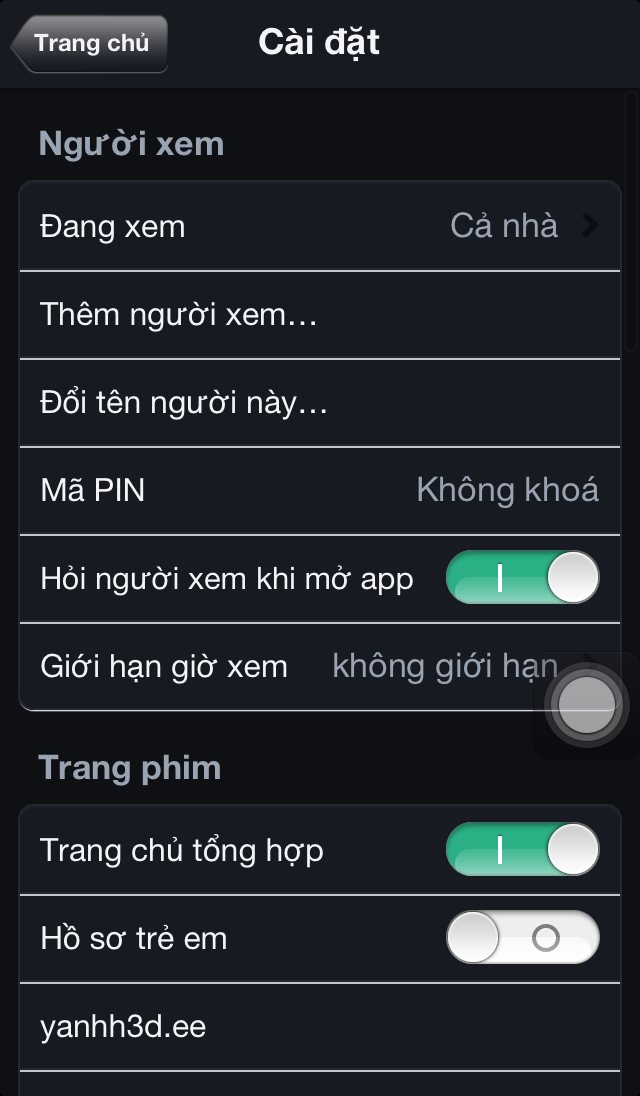
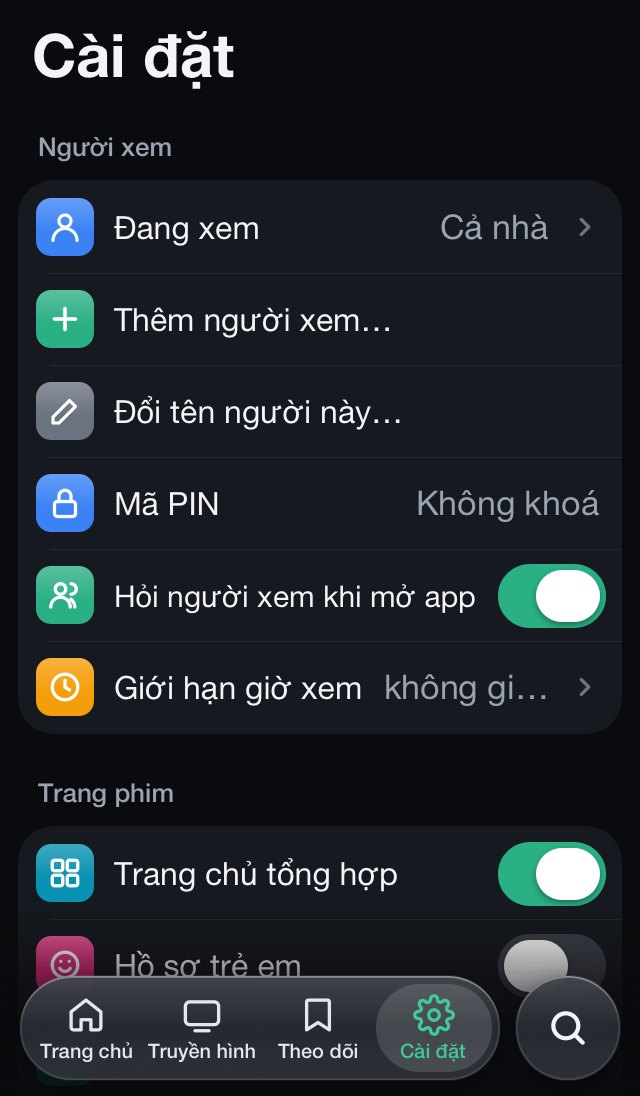
Trang giới thiệu: ảnh và chữ theo bản 0.6.0 (giao diện kiểu iOS 26)
- Ảnh mới chụp từ app trên iPhone 5 (iOS 6) và iPad 1 (iOS 5): trang chủ có thanh tab nổi, trang phim, trình phát + bảng
  chọn tập, Cài đặt, Điểm IMDb cao, radio; ảnh mới «thu nhỏ khi đang xem» và «tìm kiếm» (thay màn Thể loại)
- Chụp thẳng cửa sổ app: không thanh trạng thái, không nút AssistiveTouch
- Chữ: thanh tab nổi, nút kính, nút «Tập», mục mới «Vừa xem vừa lướt»; hỏi đáp: tab Truyền hình → nút +

diff --git a/index.html b/index.html
@@ -221,7 +221,7 @@ footer p{margin:14px auto 0;max-width:50em;font-size:13px;line-height:1.55;color
 <img class="appicon" src="assets/logo.png" alt="Biểu tượng Côn Bằng TV Legacy" width="120" height="120">
 <p class="eyebrow" style="margin-top:12px">iPhone · iPad · iPod touch — iOS 5, iOS 6 đã jailbreak</p>
 <h1 class="h1 press">Máy cũ vẫn xem phim&nbsp;mượt.</h1>
-<p class="lead">iPhone, iPad đời iOS 5, iOS 6 không còn cài được app xem phim nào. <strong>Côn Bằng TV Legacy</strong> viết riêng cho chúng: gom phim từ nhiều trang về một trang chủ, phát bằng chip giải mã của máy nên 1080p vẫn mượt, xem truyền hình và nghe radio từ danh sách kênh của bạn, đồng bộ lịch sử với tivi và các máy khác trong nhà — và tự cập nhật.</p>
+<p class="lead">iPhone, iPad đời iOS 5, iOS 6 không còn cài được app xem phim nào. <strong>Côn Bằng TV Legacy</strong> viết riêng cho chúng: gom phim từ nhiều trang về một trang chủ, phát bằng chip giải mã của máy nên 1080p vẫn mượt, xem truyền hình và nghe radio từ danh sách kênh của bạn, đồng bộ lịch sử với tivi và các máy khác trong nhà — và tự cập nhật. Từ bản 0.6.0: <strong>giao diện mới kiểu iOS 26</strong>, thanh tab nổi, nút kính.</p>
 <div class="actions">
 <a href="cydia://url/https://cydia.saurik.com/api/share#?source=https://conbangtvlegacy.github.io/repo/" class="btn">Thêm vào Cydia</a><a href="https://github.com/ConBangTVLegacy/ConBangTV-Legacy/releases/latest" class="btn-gray js-deb">Tải tệp .deb</a>
 </div>
@@ -231,8 +231,8 @@ footer p{margin:14px auto 0;max-width:50em;font-size:13px;line-height:1.55;color
 
 <div class="wrap">
 <div class="devices">
-<div class="ipad"><img src="assets/ipad-imdb.jpg" alt="Côn Bằng TV Legacy trên iPad mini (iOS 6): mục Điểm IMDb cao, lưới phim có nhãn điểm IMDb" width="1024" height="748"></div>
-<div class="iphone"><img src="assets/iphone-trang-chu.jpg" alt="Côn Bằng TV Legacy trên iPhone 5 (iOS 6): trang chủ với các nút Theo dõi, Điểm IMDb cao, hàng Xem tiếp" width="640" height="1096"></div>
+<div class="ipad"><img src="assets/ipad-imdb.jpg" alt="Côn Bằng TV Legacy trên iPad 1 (iOS 5): mục Điểm IMDb cao, lưới phim có nhãn điểm IMDb, nút quay lại tròn" width="1024" height="748"></div>
+<div class="iphone"><img src="assets/iphone-trang-chu.jpg" alt="Côn Bằng TV Legacy trên iPhone 5 (iOS 6): trang chủ kiểu iOS 26 — tiêu đề lớn, nút Điểm IMDb cao, hàng Xem tiếp, thanh tab nổi ở đáy" width="640" height="1096"></div>
 </div>
 <div class="grid four facts">
 <div class="col"><div class="table"><div class="cell"><b>Miễn phí</b><span class="d">Không tài khoản, không quảng cáo của app.</span></div></div></div><div class="col"><div class="table"><div class="cell"><b>Mượt trên máy cũ</b><span class="d">Phát bằng chip giải mã của máy — 1080p vẫn mượt trên iPhone 5, iPad mini.</span></div></div></div><div class="col"><div class="table"><div class="cell"><b>Tự cập nhật</b><span class="d">Có bản mới là app hỏi, bấm một nút là cài, giữ nguyên lịch sử.</span></div></div></div><div class="col"><div class="table"><div class="cell"><b>Mã nguồn công khai</b><span class="d">Ai cũng xem được app làm gì, trên GitHub.</span></div></div></div>
@@ -285,14 +285,14 @@ ssh root@IP-máy "dpkg -i /tmp/vn.conbangtv.legacy_*.deb &amp;&amp; su mobile -c
 <div class="head">
 <p class="eyebrow">Tính năng</p>
 <h2 class="h2 press">Đủ như bản trên tivi, gọn cho màn hình nhỏ.</h2>
-<p class="lead">Dùng chung «bộ não» với Côn Bằng TV trên tivi, Windows, Linux: cùng cách đọc trang phim, cùng trang chủ tổng hợp, cùng đồng bộ — chỉ khác lớp giao diện viết lại cho iOS 6.</p>
+<p class="lead">Dùng chung «bộ não» với Côn Bằng TV trên tivi, Windows, Linux: cùng cách đọc trang phim, cùng trang chủ tổng hợp, cùng đồng bộ — chỉ khác lớp giao diện viết riêng cho iOS 5 / 6, từ bản 0.6.0 theo phong cách iOS 26 («Liquid Glass»).</p>
 </div>
 <div class="grid">
 <div class="col">
 <div class="table">
 <div class="cell ico"><span class="icon i-blue"><svg viewBox="0 0 24 24" fill="none" stroke="currentColor" stroke-width="2" stroke-linecap="round" stroke-linejoin="round"><rect x="3" y="4" width="7" height="9" rx="1.5"></rect><rect x="14" y="4" width="7" height="5" rx="1.5"></rect><rect x="14" y="12" width="7" height="8" rx="1.5"></rect><rect x="3" y="16" width="7" height="4" rx="1.5"></rect></svg></span><b>Một trang chủ, nhiều nguồn phim</b><span class="d">Phim mới từ các trang gom về một chỗ, phim trùng gộp làm một («3 nguồn»), xếp theo thứ bạn đang xem dở.</span></div>
 <div class="cell ico"><span class="icon i-red"><svg viewBox="0 0 24 24" fill="none" stroke="currentColor" stroke-width="2" stroke-linecap="round" stroke-linejoin="round"><rect x="3" y="5" width="18" height="12" rx="2"></rect><path d="M10 9l4 2-4 2z"></path><path d="M8 20h8"></path></svg></span><b>Phát mượt, bỏ quảng cáo chèn</b><span class="d">Video phát bằng trình phát gốc của iOS, giải mã phần cứng tới 1080p. Đoạn quảng cáo chèn giữa phim (HLS) được cắt bỏ trước khi phát; phụ đề rời hiện được.</span></div>
-<div class="cell ico"><span class="icon i-orange"><svg viewBox="0 0 24 24" fill="none" stroke="currentColor" stroke-width="2" stroke-linecap="round" stroke-linejoin="round"><rect x="3" y="4" width="5" height="4" rx="1"></rect><rect x="10" y="4" width="5" height="4" rx="1"></rect><rect x="17" y="4" width="4" height="4" rx="1"></rect><rect x="3" y="11" width="5" height="4" rx="1"></rect><rect x="10" y="11" width="5" height="4" rx="1"></rect><path d="M3 19h18"></path></svg></span><b>Chọn tập ngay khi đang xem</b><span class="d">Nút <strong>☰ Tập</strong> mở lưới mọi tập (đổi được Vietsub / Thuyết minh). Nút <strong>⋯</strong>: tự bỏ qua đoạn mở đầu, hẹn giờ tắt. Nhớ chỗ đang xem, tự chuyển tập sau.</span></div>
+<div class="cell ico"><span class="icon i-orange"><svg viewBox="0 0 24 24" fill="none" stroke="currentColor" stroke-width="2" stroke-linecap="round" stroke-linejoin="round"><rect x="3" y="4" width="5" height="4" rx="1"></rect><rect x="10" y="4" width="5" height="4" rx="1"></rect><rect x="17" y="4" width="4" height="4" rx="1"></rect><rect x="3" y="11" width="5" height="4" rx="1"></rect><rect x="10" y="11" width="5" height="4" rx="1"></rect><path d="M3 19h18"></path></svg></span><b>Chọn tập ngay khi đang xem</b><span class="d">Nút <strong>Tập</strong> mở lưới mọi tập (đổi được Vietsub / Thuyết minh). Nút <strong>⋯</strong>: tự bỏ qua đoạn mở đầu, hẹn giờ tắt. Nhớ chỗ đang xem, tự chuyển tập sau.</span></div>
 <div class="cell ico"><span class="icon i-yellow"><svg viewBox="0 0 24 24" fill="none" stroke="currentColor" stroke-width="2" stroke-linecap="round" stroke-linejoin="round"><path d="M6 9a6 6 0 0 1 12 0c0 6 2.5 7.5 2.5 7.5h-17S6 15 6 9z"></path><path d="M10 20a2 2 0 0 0 4 0"></path></svg></span><b>Có tập mới là biết</b><span class="d">Bấm <strong>Theo dõi</strong> một lần. Phim theo dõi hoặc đang xem dở có tập mới lên hàng «Có tập mới» ở đầu trang chủ.</span></div>
 <div class="cell ico"><span class="icon i-gray"><svg viewBox="0 0 24 24" fill="none" stroke="currentColor" stroke-width="2" stroke-linecap="round" stroke-linejoin="round"><circle cx="11" cy="11" r="6.5"></circle><path d="M20 20l-4.2-4.2"></path></svg></span><b>Một ô tìm cho mọi trang</b><span class="d">Gõ tên phim có dấu hay không dấu; app hỏi cùng lúc mọi trang, kết quả chia theo từng trang.</span></div>
 </div>
@@ -316,12 +316,13 @@ ssh root@IP-máy "dpkg -i /tmp/vn.conbangtv.legacy_*.deb &amp;&amp; su mobile -c
 <h3 class="h3 press">Mở app là thấy đúng phim mình hay xem.</h3>
 <div class="table">
 <div class="cell"><span class="check">✓</span>Hàng <strong>Có tập mới</strong> và <strong>Xem tiếp</strong> luôn ở đầu: chạm là phát tiếp đúng chỗ.</div>
-<div class="cell"><span class="check">✓</span>Dải nút trên cùng: <strong>☆ Theo dõi</strong>, <strong>★ Điểm IMDb cao</strong>, <strong>Thể loại</strong>, <strong>Quốc gia</strong> và danh mục của trang.</div>
+<div class="cell"><span class="check">✓</span><strong>Thanh tab nổi</strong>: Trang chủ, Truyền hình, Theo dõi, Cài đặt và nút tìm tròn — iPhone ở đáy (cuộn xuống thu thành một nút tròn), iPad ở giữa mép trên.</div>
+<div class="cell"><span class="check">✓</span>Dải nút đầu trang: <strong>★ Điểm IMDb cao</strong>, <strong>Thể loại</strong>, <strong>Quốc gia</strong> và danh mục của trang.</div>
 <div class="cell"><span class="check">✓</span>Gợi ý <strong>Giống «phim vừa xem»</strong>, theo thể loại bạn hay xem; phim có ở nhiều trang chỉ hiện một lần.</div>
 <div class="cell"><span class="check">✓</span>Trang nào chậm hay lỗi thì dùng bản đã lưu, không bắt cả trang chủ chờ.</div>
 </div>
 </div>
-<div class="pic"><div class="frame phone"><img src="assets/iphone-trang-chu.jpg" alt="Trang chủ trên iPhone 5: dải nút Theo dõi, Điểm IMDb cao; hàng Xem tiếp và hàng Giống «phim vừa xem»" width="640" height="1096"></div></div>
+<div class="pic"><div class="frame phone"><img src="assets/iphone-trang-chu.jpg" alt="Trang chủ trên iPhone 5: tiêu đề lớn, nút người xem tròn, dải nút Điểm IMDb cao; hàng Xem tiếp, hàng Giống «phim vừa xem» và thanh tab nổi ở đáy" width="640" height="1096"></div></div>
 </div>
 
 <div class="row flip cf">
@@ -329,29 +330,43 @@ ssh root@IP-máy "dpkg -i /tmp/vn.conbangtv.legacy_*.deb &amp;&amp; su mobile -c
 <p class="eyebrow">Xem phim</p>
 <h3 class="h3 press">Chọn tập, đổi server mà không thoát ra.</h3>
 <div class="table">
-<div class="cell"><span class="check">✓</span><strong>☰ Tập</strong>: lưới mọi tập, tập đang xem viền vàng, đổi bản Vietsub / Thuyết minh.</div>
+<div class="cell"><span class="check">✓</span>Nút kính nổi trên hình: ở giữa là tập trước, lùi / tới 10 giây, phát / tạm dừng, tập sau; thanh tua nằm trong viên kính ở đáy.</div>
+<div class="cell"><span class="check">✓</span><strong>Tập</strong>: lưới mọi tập trong thẻ kính, tập đang xem viền xanh, đổi bản Vietsub / Thuyết minh.</div>
 <div class="cell"><span class="check">✓</span><strong>Server</strong>: app tự chọn server phát được trên iOS 5 / 6 và nhớ server chạy tốt; rớt mạng thì tự thử lại, xem tiếp đúng giây.</div>
 <div class="cell"><span class="check">✓</span><strong>⋯</strong>: đánh dấu và tự bỏ qua đoạn mở đầu, hẹn giờ tắt, tải lại tập.</div>
 <div class="cell"><span class="check">✓</span>Chạm đúp nửa trái / phải để tua lùi / tới; chụm hai ngón để vừa / lấp đầy màn hình.</div>
 </div>
 </div>
-<div class="pic"><div class="frame land"><img src="assets/iphone-chon-tap.jpg" alt="Trình phát trên iPhone 5 nằm ngang, bảng chọn tập đang mở: lưới Tập 1 đến Tập 28, Tập 1 viền vàng" width="1136" height="640"></div></div>
+<div class="pic"><div class="frame land"><img src="assets/iphone-chon-tap.jpg" alt="Trình phát trên iPhone 5 nằm ngang: nút kính Đóng, server, Hình nổi, Thu nhỏ, menu; bảng chọn tập đang mở với Vietsub / Thuyết Minh / Lồng Tiếng, Tập 1 viền xanh; thanh tua ở đáy" width="1136" height="640"></div></div>
 </div>
 
 <div class="row cf">
 <div class="text">
+<p class="eyebrow">Vừa xem vừa lướt</p>
+<h3 class="h3 press">Thu nhỏ trình phát, tìm phim khác trong lúc xem.</h3>
+<div class="table">
+<div class="cell"><span class="check">✓</span><strong>iPhone</strong>: bấm ⌄ (hoặc vuốt xuống trên hình) — phim thành viên kính nhỏ ngay trên thanh tab: hình, tên phim, tạm dừng, ✕. Chạm để mở lại, kéo hình lên thành khung nổi ở góc.</div>
+<div class="cell"><span class="check">✓</span><strong>iPad</strong>: phim vào khung kính bo tròn ở góc, kéo sang góc khác được.</div>
+<div class="cell"><span class="check">✓</span>Muốn xem nổi trên màn hình chính và app khác: cài thêm gói <strong>«Hình nổi»</strong> ở cùng nguồn Cydia (iOS 6 trở lên), nút «Hình nổi» hiện trong trình phát.</div>
+</div>
+</div>
+<div class="pic"><div class="frame phone"><img src="assets/iphone-thu-nho.jpg" alt="Trang chủ trên iPhone 5 khi đang xem thu nhỏ: viên kính có hình phim, tên phim, nút tạm dừng và đóng nằm ngay trên thanh tab nổi" width="640" height="1096"></div></div>
+</div>
+
+<div class="row flip cf">
+<div class="text">
 <p class="eyebrow">Trang phim</p>
 <h3 class="h3 press">Xem tiếp, theo dõi và phim liên quan.</h3>
 <div class="table">
-<div class="cell"><span class="check">✓</span>Nút <strong>Xem tiếp: Tập …</strong>, <strong>Mới nhất</strong>, <strong>Từ tập đầu</strong>, nút <strong>Theo dõi</strong>, danh sách tập — tập đã xem có màu riêng.</div>
+<div class="cell"><span class="check">✓</span>Nút lớn <strong>Xem tiếp · Tập …</strong>, nút tròn <strong>Theo dõi</strong>, <strong>Mới nhất</strong>, <strong>Từ tập đầu</strong>, danh sách tập bo tròn — tập đã xem có màu riêng. Nền là ảnh bìa làm mờ (máy RAM từ 512 MB).</div>
 <div class="cell"><span class="check">✓</span>Phim có ở nhiều trang: nút <strong>⇄</strong> đổi sang trang khác.</div>
 <div class="cell"><span class="check">✓</span>Cuối trang: các hàng <strong>phim liên quan</strong> — cùng bộ, cùng thể loại, cả từ trang khác.</div>
 </div>
 </div>
-<div class="pic"><div class="frame tablet"><img src="assets/ipad-phim-lien-quan.jpg" alt="Trang phim trên iPad mini: ảnh phim, thông tin, nút Xem từ tập đầu, Theo dõi, danh sách tập, mô tả và hàng phim cùng thể loại" width="768" height="1004"></div></div>
+<div class="pic"><div class="frame tablet"><img src="assets/ipad-phim-lien-quan.jpg" alt="Trang phim trên iPad 1: ảnh phim, thông tin, nút Xem từ tập đầu, nút tròn Theo dõi, chọn bản Vietsub / Thuyết Minh / Lồng Tiếng, danh sách 40 tập, mô tả và hàng phim cùng thể loại" width="768" height="1004"></div></div>
 </div>
 
-<div class="row flip cf">
+<div class="row cf">
 <div class="text">
 <p class="eyebrow">Tìm phim hay</p>
 <h3 class="h3 press">Điểm IMDb cao, thể loại, quốc gia.</h3>
@@ -362,10 +377,10 @@ ssh root@IP-máy "dpkg -i /tmp/vn.conbangtv.legacy_*.deb &amp;&amp; su mobile -c
 <div class="cell"><span class="check">✓</span><strong>Phim Âu Mỹ 4K</strong> (dexter.pw): phim lẻ, phim bộ chia mùa, phụ đề tiếng Việt / tiếng Anh, chọn chất lượng.</div>
 </div>
 </div>
-<div class="pic"><div class="frame tablet land"><img src="assets/ipad-the-loai.jpg" alt="Màn Thể loại trên iPad mini nằm ngang: lưới nút Hành Động, Cổ Trang, Viễn Tưởng, Kinh Dị, Tình Cảm…" width="1024" height="748"></div></div>
+<div class="pic"><div class="frame tablet land"><img src="assets/ipad-tim-kiem.jpg" alt="Tìm kiếm trên iPad 1 nằm ngang: thanh tab nổi ở mép trên, ô tìm «godzilla», kết quả chia theo trang với 11 phim của dexter.pw" width="1024" height="748"></div></div>
 </div>
 
-<div class="row cf" id="truyen-hinh">
+<div class="row flip cf" id="truyen-hinh">
 <div class="text">
 <p class="eyebrow">Truyền hình và radio</p>
 <h3 class="h3 press">Kênh của bạn, xem và nghe ngay trên máy cũ.</h3>
@@ -377,10 +392,10 @@ ssh root@IP-máy "dpkg -i /tmp/vn.conbangtv.legacy_*.deb &amp;&amp; su mobile -c
 <div class="cell"><span class="check">✓</span>Danh sách tự làm mới; link kênh hết hạn thì app tự tìm link mới rồi phát lại.</div>
 </div>
 </div>
-<div class="pic"><div class="frame tablet land"><img src="assets/ipad-radio.jpg" alt="iPad 1 (iOS 5) đang nghe một đài radio: logo đài, tên đài, tên bài đang phát, MP3 · 128 kbps" width="1024" height="768"></div></div>
+<div class="pic"><div class="frame tablet land"><img src="assets/ipad-radio.jpg" alt="iPad 1 (iOS 5) đang nghe một đài radio: logo đài, tên đài, tên bài đang phát, MP3 · 128 kbps; nút kính Lịch, Kênh, Kênh trước, Tạm dừng, Kênh sau" width="1024" height="748"></div></div>
 </div>
 
-<div class="row flip cf">
+<div class="row cf">
 <div class="text">
 <p class="eyebrow">Người xem và trẻ em</p>
 <h3 class="h3 press">Mỗi người một hồ sơ, trẻ em có chế độ riêng.</h3>
@@ -391,7 +406,7 @@ ssh root@IP-máy "dpkg -i /tmp/vn.conbangtv.legacy_*.deb &amp;&amp; su mobile -c
 <div class="cell"><span class="check">✓</span><strong>Giới hạn giờ xem</strong> mỗi ngày và <strong>giờ đi ngủ</strong>; hết giờ phim dừng, người lớn nhập mã để cho xem thêm 15 / 30 / 60 phút.</div>
 </div>
 </div>
-<div class="pic"><div class="frame phone"><img src="assets/iphone-cai-dat.jpg" alt="Cài đặt trên iPhone 5: người xem, mã PIN, giới hạn giờ xem, trang chủ tổng hợp, hồ sơ trẻ em" width="640" height="1096"></div></div>
+<div class="pic"><div class="frame phone"><img src="assets/iphone-cai-dat.jpg" alt="Cài đặt trên iPhone 5: các ô bo tròn có biểu tượng màu — đang xem, thêm người xem, mã PIN, hỏi người xem khi mở app, giới hạn giờ xem, trang chủ tổng hợp, hồ sơ trẻ em" width="640" height="1096"></div></div>
 </div>
 </div>
 
@@ -464,7 +479,7 @@ ssh root@IP-máy "dpkg -i /tmp/vn.conbangtv.legacy_*.deb &amp;&amp; su mobile -c
 <div class="table" style="margin-top:12px">
 <div class="cell"><b>Server chỉ có trình phát nhúng</b><span class="d">Vài server của trang phim chỉ là trang web nhúng trình phát (streamfree, NguonC…) — trình duyệt của iOS 5 / 6 quá cũ để chạy. App tự bỏ qua và chọn server có luồng video thật (KKPhim, VSMOV…).</span></div>
 <div class="cell"><b>Cần jailbreak</b><span class="d">Apple đã ngừng mọi cách cài app chưa duyệt lên iOS 5 / 6, App Store cũng không còn app nào chạy được. Gói cài qua Cydia nên máy phải đã jailbreak.</span></div>
-<div class="cell"><b>Hình trong hình phải tự làm</b><span class="d">iOS 5 / 6 không có hình trong hình của hệ thống. App tự làm: thu nhỏ trình phát trong app (iPad: khung ở góc; iPhone: thanh ở đáy, kéo lên thành khung nổi — máy RAM từ 512 MB); xem nổi trên màn hình chính / app khác thì cài thêm gói «Hình nổi» (iOS 6 trở lên). iPad 1, iPhone 3GS: ra màn hình chính là phim tạm dừng, mở lại app xem tiếp đúng chỗ. Đài radio thì vẫn nghe tiếp.</span></div>
+<div class="cell"><b>Hình trong hình phải tự làm</b><span class="d">iOS 5 / 6 không có hình trong hình của hệ thống. App tự làm: thu nhỏ trình phát trong app (iPad: khung kính ở góc; iPhone: viên kính trên thanh tab, kéo lên thành khung nổi — máy RAM từ 512 MB); xem nổi trên màn hình chính / app khác thì cài thêm gói «Hình nổi» (iOS 6 trở lên). iPad 1, iPhone 3GS: ra màn hình chính là phim tạm dừng, mở lại app xem tiếp đúng chỗ. Đài radio thì vẫn nghe tiếp.</span></div>
 <div class="cell"><b>Vài kiểu kênh không phát được</b><span class="d">Máy iOS 5 / 6 chỉ giải mã H.264, AAC, MP3: kênh H.265, hình xen kẽ dạng trường của đài phát sóng (1080i), DASH (.mpd), đài Ogg thì app báo rõ «không phát được» và tự sang nguồn khác của kênh nếu có. Kênh tiếng MP2 thì phát hình không tiếng.</span></div>
 </div>
 </div><div class="col" id="rieng-tu">
@@ -495,7 +510,7 @@ ssh root@IP-máy "dpkg -i /tmp/vn.conbangtv.legacy_*.deb &amp;&amp; su mobile -c
 <div class="cell q"><h3>Video không phát hoặc báo lỗi?</h3>
 <div class="ans">Chạm vào video cho hiện nút, bấm <strong>Server</strong> và chọn server khác — app nhớ server nào chạy được cho lần sau. Phim mà mọi server chỉ có trình phát nhúng thì iOS 5 / 6 không phát được (xem <a href="#gioi-han">Những gì iOS 6 không làm được</a>); tìm phim đó ở trang khác bằng ô tìm kiếm.</div></div>
 <div class="cell q" id="kenh"><h3>App có sẵn kênh truyền hình, radio không?</h3>
-<div class="ans">Không. App chỉ là trình phát: bạn tự thêm danh sách kênh M3U / M3U8 mà mình có quyền xem (chip <strong>Truyền hình</strong> ở trang chủ, hoặc <strong>Cài đặt → Dữ liệu → Truyền hình</strong>) — dán địa chỉ, hoặc có tệp .m3u trên máy tính thì chọn <strong>Gửi tệp từ máy tính (Wi-Fi)</strong>, mở địa chỉ app hiện bằng trình duyệt trên máy tính rồi chọn tệp. Đài radio trong danh sách nghe được ngay, kể cả khi khoá máy; danh sách có ghi địa chỉ lịch phát sóng (XMLTV) thì app hiện lịch.</div></div>
+<div class="ans">Không. App chỉ là trình phát: bạn tự thêm danh sách kênh M3U / M3U8 mà mình có quyền xem (tab <strong>Truyền hình</strong> → nút <strong>+</strong>, hoặc <strong>Cài đặt → Dữ liệu → Truyền hình</strong>) — dán địa chỉ, hoặc có tệp .m3u trên máy tính thì chọn <strong>Gửi tệp từ máy tính (Wi-Fi)</strong>, mở địa chỉ app hiện bằng trình duyệt trên máy tính rồi chọn tệp. Đài radio trong danh sách nghe được ngay, kể cả khi khoá máy; danh sách có ghi địa chỉ lịch phát sóng (XMLTV) thì app hiện lịch.</div></div>
 <div class="cell q"><h3>Trang phim không vào được?</h3>
 <div class="ans">Thường là nhà mạng chặn. DNS mã hoá và vượt chặn đã có trong <strong>Cài đặt → Mạng</strong>; vẫn không được thì đổi trang phim khác trong <strong>Cài đặt → Trang phim</strong> (có nút đo tốc độ các trang), hoặc dùng proxy SOCKS5 / Shadowsocks.</div></div>
 <div class="cell q"><h3>Cập nhật app thế nào?</h3>
